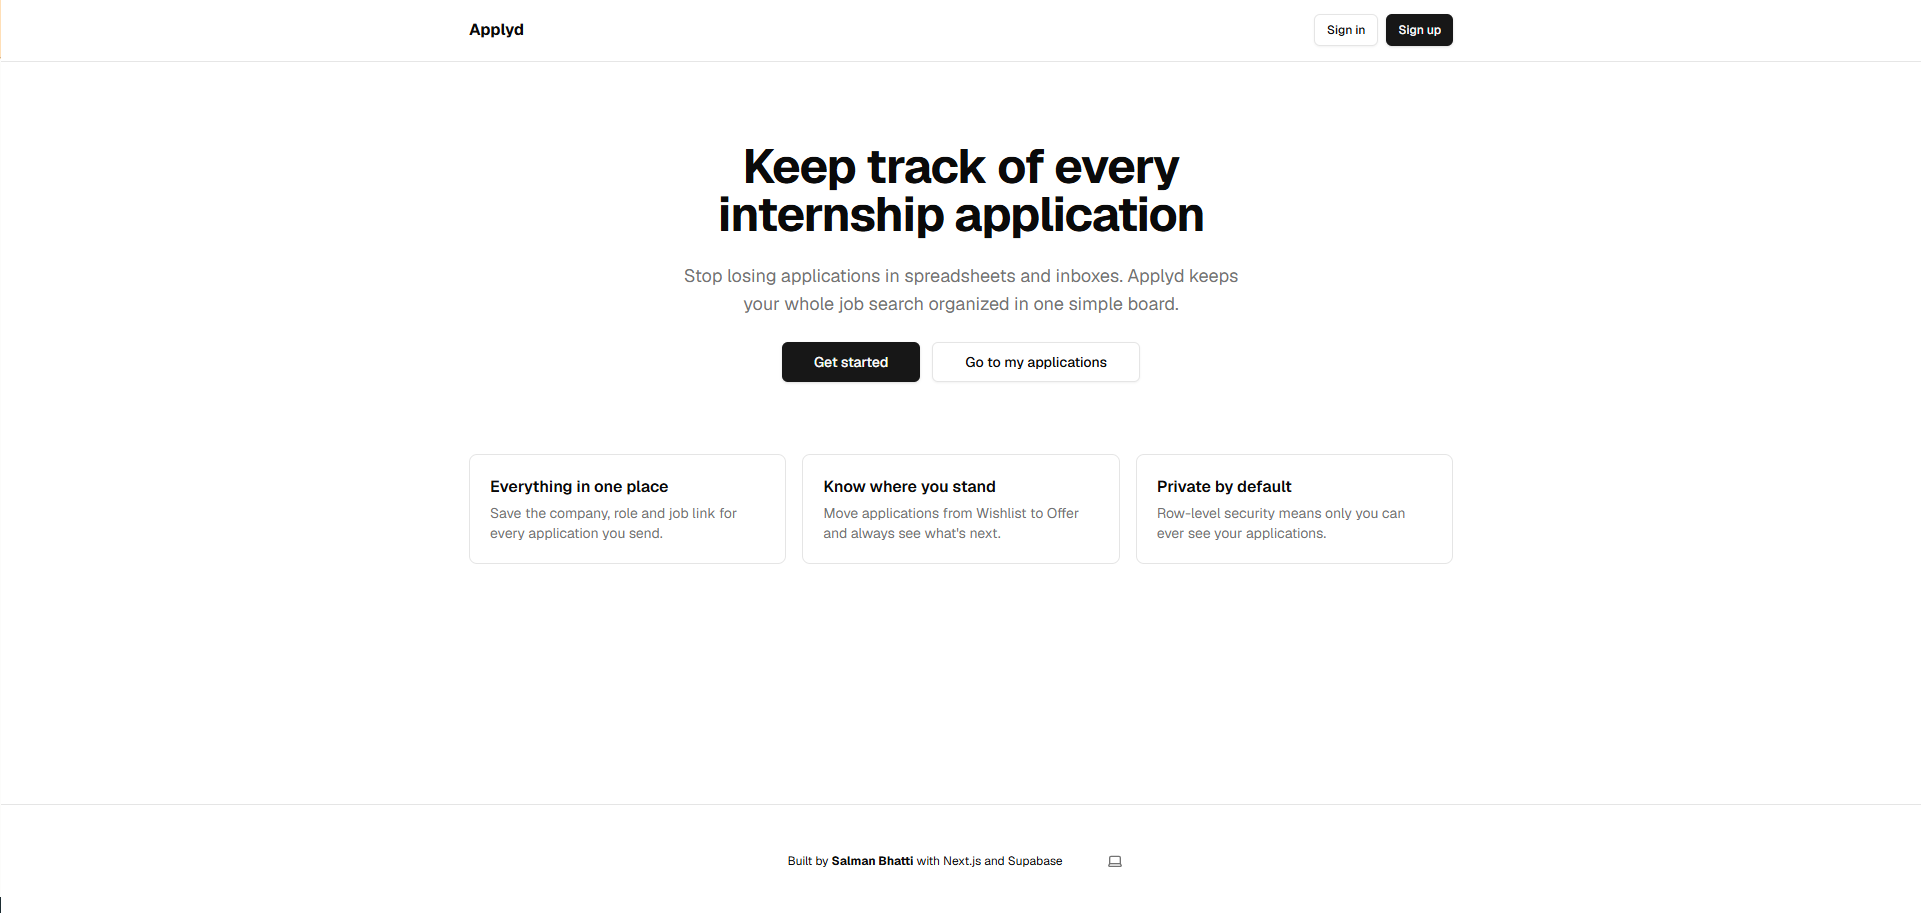
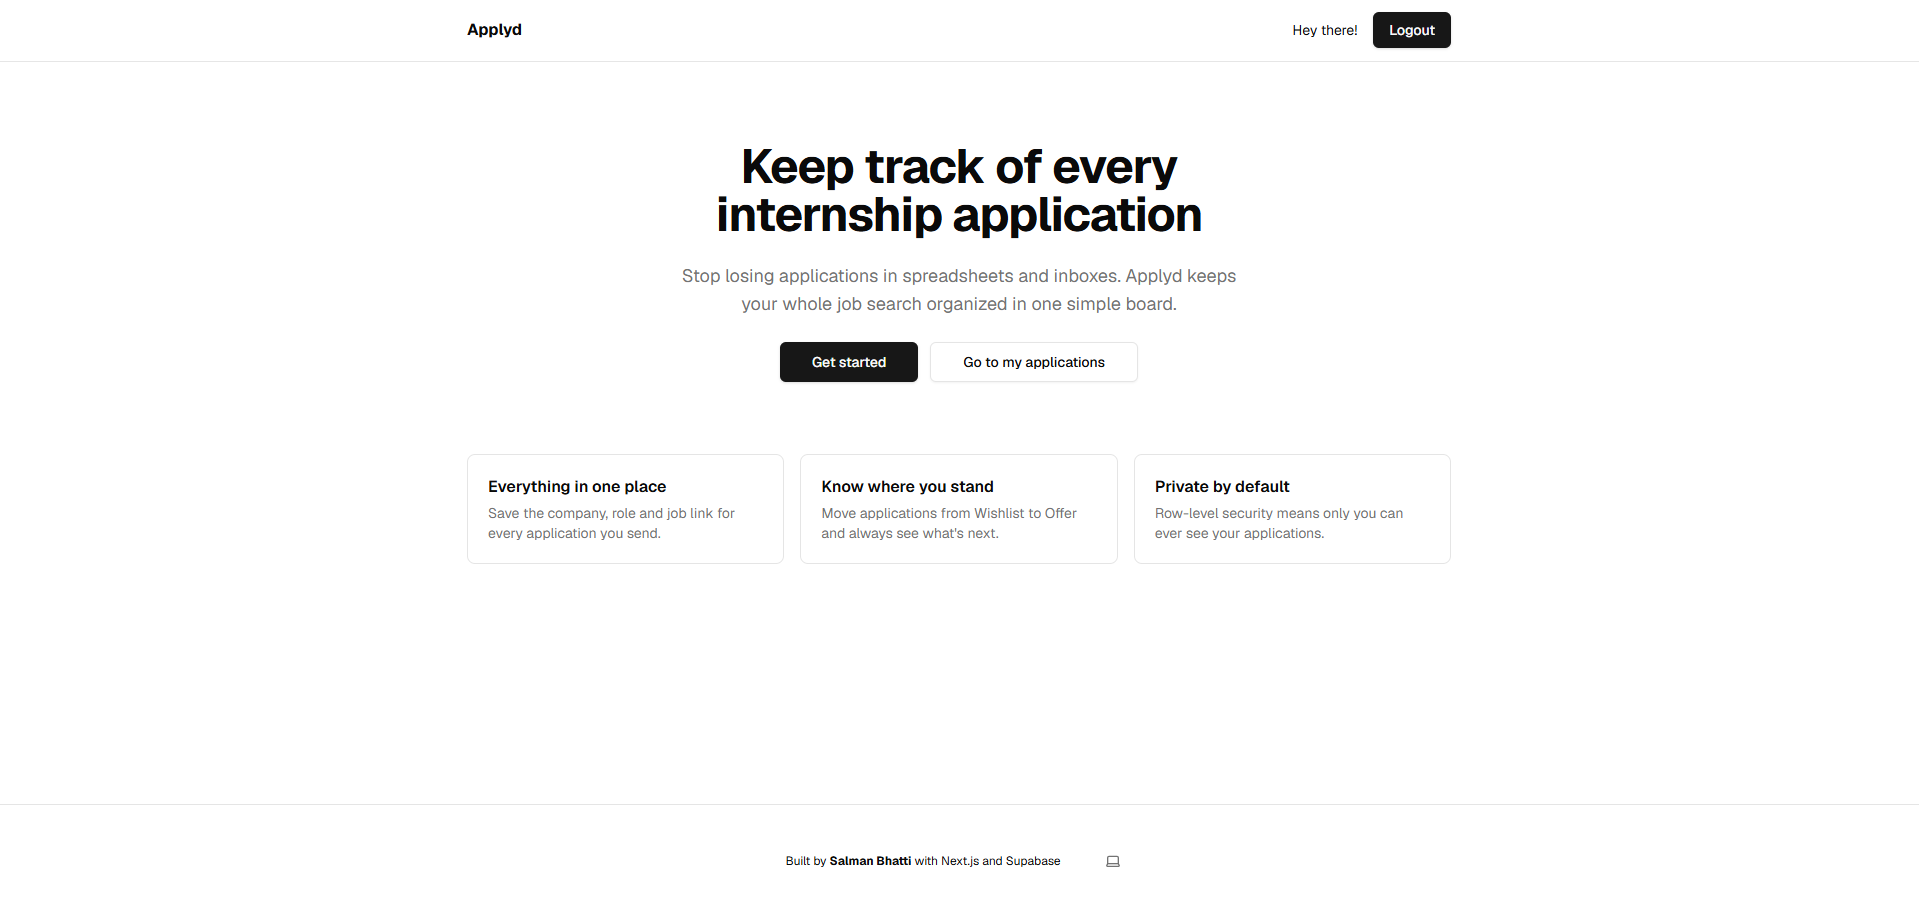
Add search to the Kanban board

diff --git a/app/protected/kanban-board.tsx b/app/protected/kanban-board.tsx
@@ -17,7 +17,7 @@ import Link from "next/link";
 import { GripVertical, Pencil } from "lucide-react";
 import { Button } from "@/components/ui/button";import { updateStatus } from "./actions";
 import { DeleteButton, StatusSelect } from "./application-controls";
-
+import { Input } from "@/components/ui/input";
 
 export type Application = {
   id: string;
@@ -40,6 +40,7 @@ export function KanbanBoard({ applications }: { applications: Application[] }) {
   const dndId = useId();
   const [items, setItems] = useState(applications);
   const [activeId, setActiveId] = useState<string | null>(null);
+  const [query, setQuery] = useState("");
   const [, startTransition] = useTransition();
 
   // When the server sends fresh data (e.g. after adding an application),
@@ -52,6 +53,16 @@ export function KanbanBoard({ applications }: { applications: Application[] }) {
   const sensors = useSensors(useSensor(PointerSensor), useSensor(KeyboardSensor));
 
   const activeApp = items.find((app) => app.id === activeId) ?? null;
+
+    // Only show cards whose company or role contains the search text
+  const search = query.trim().toLowerCase();
+  const visibleItems = search
+    ? items.filter(
+        (app) =>
+          app.company.toLowerCase().includes(search) ||
+          app.role.toLowerCase().includes(search),
+      )
+    : items;
 
   function handleDragStart(event: DragStartEvent) {
     setActiveId(String(event.active.id));
@@ -85,13 +96,29 @@ export function KanbanBoard({ applications }: { applications: Application[] }) {
       onDragEnd={handleDragEnd}
       onDragCancel={() => setActiveId(null)}
     >
+           <div className="mb-4 flex flex-wrap items-center gap-3">
+        <Input
+          type="search"
+          placeholder="Search by company or role"
+          aria-label="Search applications"
+          value={query}
+          onChange={(e) => setQuery(e.target.value)}
+          className="max-w-sm"
+        />
+        {search && (
+          <p className="text-sm text-muted-foreground">
+            {visibleItems.length} of {items.length} applications
+          </p>
+        )}
+      </div>
+
       <div className="grid gap-4 sm:grid-cols-2 lg:grid-cols-5">
         {COLUMNS.map((column) => (
           <Column
             key={column.id}
             id={column.id}
             title={column.title}
-            applications={items.filter((a) => a.status === column.id)}
+            applications={visibleItems.filter((a) => a.status === column.id)}
           />
         ))}
       </div>
